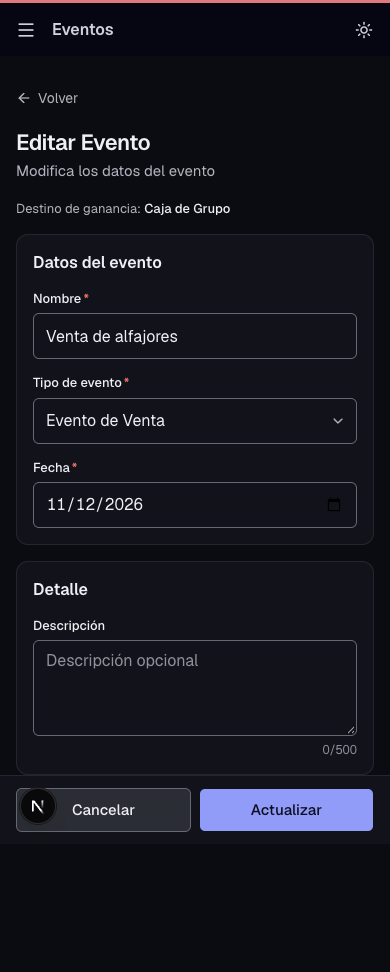
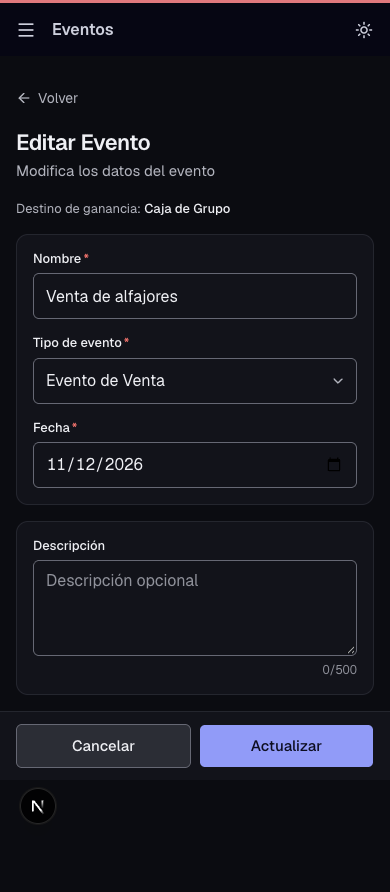
refactor(eventos): formularios con la misma composición que movimientos

diff --git a/src/shared/components/ui/form/form-card.tsx b/src/shared/components/ui/form/form-card.tsx
@@ -1,27 +1,18 @@
-import { useId, type ReactNode } from 'react';
+import type { ReactNode } from 'react';
 
 export interface FormCardProps {
-  readonly title: string;
-  readonly description?: string;
+  /** Nombre accesible de la sección (no se muestra: las tarjetas de formulario no llevan título). */
+  readonly label: string;
   readonly children: ReactNode;
 }
 
-/** Tarjeta de formulario: título corto (+ descripción) y los campos de esa sección. */
-export function FormCard({ title, description, children }: FormCardProps) {
-  const titleId = useId();
+/** Tarjeta de formulario: misma superficie que las de movimientos; dos lado a lado desde `lg`. */
+export function FormCard({ label, children }: FormCardProps) {
   return (
     <section
-      aria-labelledby={titleId}
+      aria-label={label}
       className="flex flex-col gap-4 rounded-xl border border-border bg-surface p-4 shadow-xs md:p-6"
     >
-      <header className="grid gap-1">
-        <h2 id={titleId} className="text-base font-semibold text-ink">
-          {title}
-        </h2>
-        {description ? (
-          <p className="text-sm text-ink-muted">{description}</p>
-        ) : null}
-      </header>
       {children}
     </section>
   );

diff --git a/src/features/eventos/components/ventas-lote-view.tsx b/src/features/eventos/components/ventas-lote-view.tsx
@@ -30,11 +30,11 @@ function LoteForm({ state }: { readonly state: VentasLoteState }) {
       className="flex flex-col gap-4 md:gap-6"
     >
       <div className="grid gap-4 md:gap-6 lg:grid-cols-2 lg:items-start">
-        <FormCard title={C.ventaSection}>
+        <FormCard label={C.ventaSection}>
           <VendedorFields state={state} />
           <PagoFields state={state} />
         </FormCard>
-        <FormCard title={C.cantidadesSection}>
+        <FormCard label={C.cantidadesSection}>
           <CantidadesTable
             productos={state.productos}
             cantidades={state.form.values.cantidades}
@@ -73,7 +73,7 @@ function LoteBody({ state }: { readonly state: VentasLoteState }) {
 export function VentasLoteView({ id }: { readonly id: string }) {
   const state = useVentasLote(id);
   return (
-    <div className="mx-auto flex w-full max-w-5xl flex-col gap-4 md:gap-6">
+    <div className="flex flex-col gap-4 md:gap-6">
       <PageHeader
         title={C.title}
         subtitle={C.subtitle}

diff --git a/src/shared/components/ui/form/form-card.test.tsx b/src/shared/components/ui/form/form-card.test.tsx
@@ -3,17 +3,14 @@ import { render, screen } from '@testing-library/react';
 import { FormCard } from './form-card';
 
 describe('FormCard', () => {
-  it('es una sección nombrada por su título, con descripción opcional', () => {
+  it('es una sección nombrada que agrupa los campos, sin título visible', () => {
     render(
-      <FormCard title="Datos del evento" description="Lo básico">
+      <FormCard label="Datos del evento">
         <input aria-label="Nombre" />
       </FormCard>,
     );
     const section = screen.getByRole('region', { name: 'Datos del evento' });
     expect(section).toContainElement(screen.getByLabelText('Nombre'));
-    expect(screen.getByText('Lo básico')).toBeInTheDocument();
-    expect(
-      screen.getByRole('heading', { level: 2, name: 'Datos del evento' }),
-    ).toBeInTheDocument();
+    expect(screen.queryByRole('heading')).not.toBeInTheDocument();
   });
 });

diff --git a/src/features/eventos/components/evento-form-fields.tsx b/src/features/eventos/components/evento-form-fields.tsx
@@ -91,8 +91,8 @@ function BaseFields({ form }: { readonly form: EventoFormState }) {
 export function EventoFormFields({ form, isEditing }: FieldsProps) {
   const { values, errors } = form;
   return (
-    <div className="flex flex-col gap-4 md:gap-6">
-      <FormCard title={C.sectionDatos}>
+    <div className="grid gap-4 md:gap-6 lg:grid-cols-2 lg:items-start">
+      <FormCard label={C.sectionDatos}>
         <BaseFields form={form} />
         {values.tipo === TIPO_EVENTO.GRUPO && (
           <TextField
@@ -106,7 +106,7 @@ export function EventoFormFields({ form, isEditing }: FieldsProps) {
           />
         )}
       </FormCard>
-      <FormCard title={C.sectionDetalle}>
+      <FormCard label={C.sectionDetalle}>
         <VentaFields form={form} isEditing={isEditing} />
         <TextareaField
           label={C.descripcion}

diff --git a/src/features/eventos/components/evento-form-view.tsx b/src/features/eventos/components/evento-form-view.tsx
@@ -77,7 +77,7 @@ function DestinoMeta({ evento }: { readonly evento: Evento }) {
 /** `/eventos/crear` */
 export function EventoCreateView() {
   return (
-    <div className="mx-auto flex w-full max-w-2xl flex-col gap-4 md:gap-6">
+    <div className="flex flex-col gap-4 md:gap-6">
       <PageHeader
         title={C.newTitle}
         subtitle={C.newSubtitle}
@@ -96,7 +96,7 @@ export function EventoEditView({ id }: { readonly id: string }) {
   });
   const evento = query.data;
   return (
-    <div className="mx-auto flex w-full max-w-2xl flex-col gap-4 md:gap-6">
+    <div className="flex flex-col gap-4 md:gap-6">
       <PageHeader
         title={C.editTitle}
         subtitle={C.editSubtitle}

diff --git a/docs/REDESIGN.md b/docs/REDESIGN.md
@@ -75,7 +75,7 @@ Grilla de 2 columnas; check para lo entregado (con texto solo para lectores de p
 ## 4. Decisiones transversales (ya aplicadas)
 
 - Sin barra superior en desktop; el toggle de tema vive en el sidebar junto a Configuración.
-- Contenido sin `max-w`. Quedan acotados: formularios de persona (2xl), formularios de evento y campamento, Configuración (880px), detalle de persona externa y reporte público (`max-w-6xl`). Los formularios de movimiento ocupan todo el ancho en dos tarjetas.
+- Contenido sin `max-w`. Quedan acotados solo: Configuración (880px), detalle de persona externa y reporte público (`max-w-6xl`). **Todos los formularios** (movimiento, evento, campamento, persona, inscripción) ocupan todo el ancho en dos tarjetas.
 - Sin avatar con iniciales en la ficha (el chip de rama ya identifica).
 - «Registrar gasto» no tiene acceso propio en el dashboard (apuntaba a la misma ruta que «Nuevo movimiento»).
 - Evolución del saldo del grupo: se arma en el front paginando `GET /movimientos` (no hay endpoint de evolución).
@@ -118,7 +118,7 @@ Leyenda: ✅ hecha · 🟦 con mockup, pendiente · ⬜ sin mockup (propuesta en
 | `/campamentos/:id` | ⬜ | §7.6 |
 | `/campamentos/crear`, `/:id/editar` | ⬜ | §7.7 (formularios) |
 | `/eventos` | ✅ | Tabla en `ListPanel`, fila navegable con chevron y ⋯ |
-| `/eventos/crear`, `/:id/editar`, `/:id/ventas/registrar` | ✅ | `FormCard`; el alta/edición mantienen su ancho, la venta en lote va en dos tarjetas |
+| `/eventos/crear`, `/:id/editar`, `/:id/ventas/registrar` | ✅ | `FormCard`: dos tarjetas lado a lado a todo el ancho, igual que movimientos |
 | `/reportes`, `/reportes/deudas`, `/reportes/:report` | ⬜ | §7.9 |
 | `/personas` (listado), `/personas/educadores`, `/personas/personas-externas` | ⬜ | §7.10 |
 | `/personas/educadores/:id`, `/personas/personas-externas/:id` | ⬜ | §7.10 (fichas) |
@@ -168,7 +168,7 @@ Hoy: tres franjas apiladas (datos, KPIs, recaudación) y **una tarjeta por parti
 - Editar y Eliminar en el encabezado (Eliminar dentro de un menú, no suelto al pie).
 
 ### 7.7 Formularios (persona, campamento, evento, inscripción)
-Aplicar el patrón de §3.6 a todos: dos tarjetas desde `lg`, secciones con título corto, `FormActions` sticky, errores bajo el campo. Los que hoy están acotados a un ancho angosto (persona 2xl, evento, campamento) conservan su ancho: un formulario a 2200px es peor.
+Aplicar el patrón de §3.6 a todos: dos tarjetas desde `lg`, secciones con título corto, `FormActions` sticky, errores bajo el campo. **Todos los formularios (persona, evento, campamento, inscripción, venta en lote) usan la misma composición que movimientos: página a todo el ancho y dos tarjetas lado a lado desde `lg`** (decisión del usuario: la estética debe ser idéntica en todos).
 - **Venta en lote (`/eventos/:id/ventas/registrar`):** carga repetitiva → tabla editable (una fila por vendedor/producto) en vez de formularios apilados. Se confirma al implementarla qué trae hoy la pantalla.
 
 ### 7.8 Eventos, listado (`/eventos`)

diff --git a/REGISTRY-detail/ui.md b/REGISTRY-detail/ui.md
@@ -135,7 +135,7 @@ Cableado a11y automático (label↔control, `aria-invalid`, `aria-describedby` a
 
 ## `FormCard` — `shared/components/ui/form/form-card.tsx`
 
-`{ title, description?, children }`: tarjeta de sección de un formulario (región nombrada por su `h2`). Dos `FormCard` lado a lado desde `lg`, o apiladas en formularios angostos.
+`{ label, children }`: tarjeta de formulario con la misma superficie que las de movimientos, sin título visible (`label` es el nombre accesible). Siempre dos `FormCard` lado a lado desde `lg` (`grid lg:grid-cols-2 lg:items-start`), página a todo el ancho y `FormActions` sticky: es el patrón de TODOS los formularios.
 
 ## `InfoHint` — `shared/components/ui/info-hint.tsx`
 
